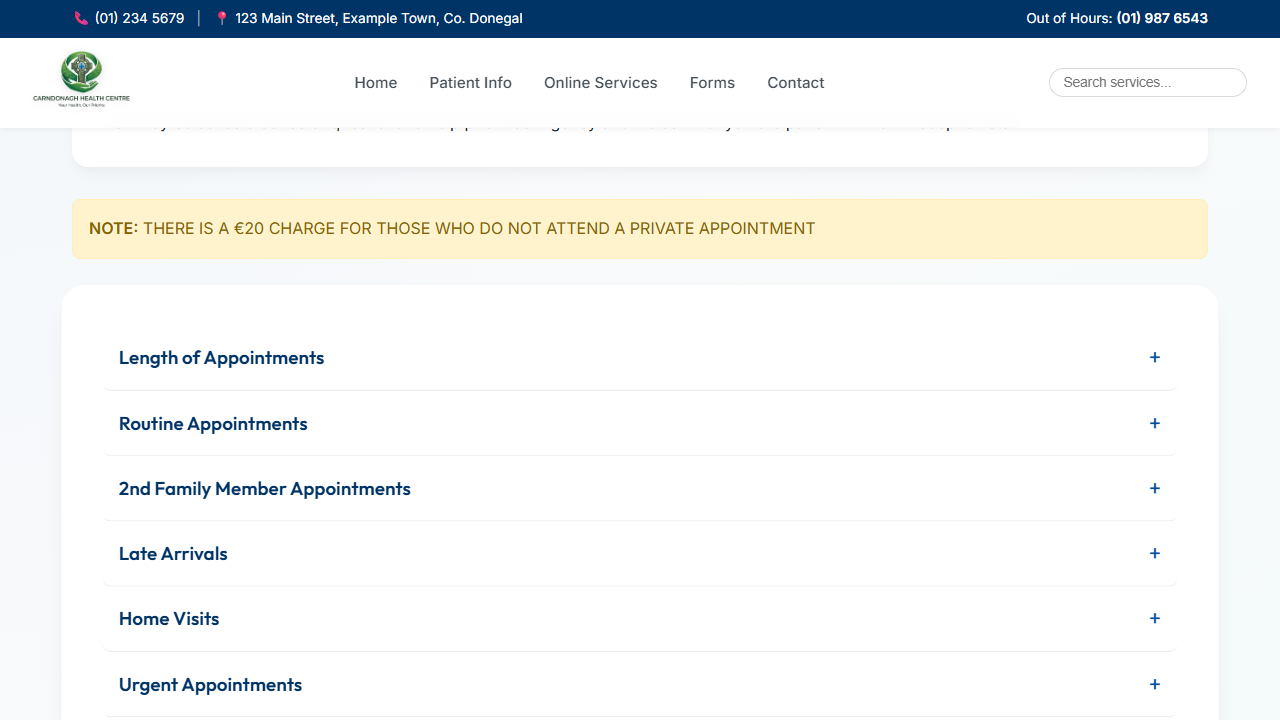
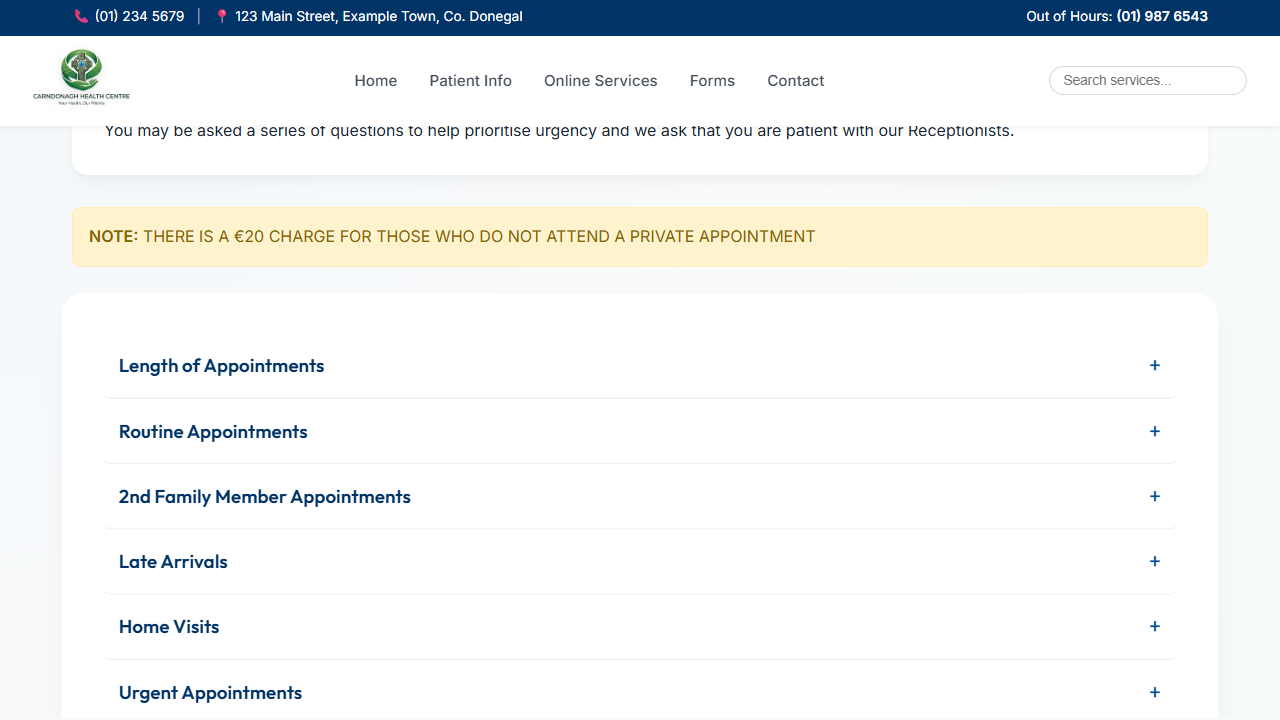
Fix: demo gating, lock scoping, bulk reads, sessionStorage, URL guards, CSS prefixes, placeholder links, test cleanup

diff --git a/forms.html b/forms.html
@@ -23,23 +23,23 @@
                 <ul class="file-list">
                     <li><a href="https://www.rsa.ie/docs/default-source/services/s1.5-driving-test/medical-report-form-d501.pdf?sfvrsn=c678b8f_17" target="_blank">Driving Licence Medical Report Form</a></li>
                     <li><a href="https://www.ndls.ie/images/Documents/DrivingLicence/155076_NDLS_Eyesight_Rep_V9_Online_FA_BD_PDFX.pdf" target="_blank">Driving Licence Eyesight Report Form</a></li>
-                    <li><a href="https://examplehealthcentre.ie/s/Carers-allowance-form.pdf" target="_blank">Carers Allowance Form (CR1)</a></li>
-                    <li><a href="https://examplehealthcentre.ie/s/37058_cb5b7ad51df64140b7ec346446ef31fb.pdf" target="_blank">Disability Allowance Form (DA1)</a></li>
-                    <li><a href="https://www2.hse.ie/file-library/medical-cards/medical-card-application-form-english.pdf" target="_blank">Medical Card & GP Visit Card Application</a></li>
-                    <li><a href="https://examplehealthcentre.ie/s/10311_db803e83c4364702b53b5acb663461bc.pdf" target="_blank">Maternity Benefit Application Form (MB1)</a></li>
-                    <li><a href="https://examplehealthcentre.ie/s/drugs-payment-scheme-application-form-english.pdf" target="_blank">Drug Payment Scheme Application</a></li>
-                    <li><a href="https://examplehealthcentre.ie/s/LTI-form.pdf" target="_blank">Long Term Illness (LTI) Application</a></li>
+                    <li><span aria-label="Demo placeholder - link not active" title="Demo site: this link is a placeholder and is not active">Carers Allowance Form (CR1) <em>[Demo placeholder]</em></span></li>
+                    <li><span aria-label="Demo placeholder - link not active" title="Demo site: this link is a placeholder and is not active">Disability Allowance Form (DA1) <em>[Demo placeholder]</em></span></li>
+                    <li><a href="https://www2.hse.ie/file-library/medical-cards/medical-card-application-form-english.pdf" target="_blank">Medical Card &amp; GP Visit Card Application</a></li>
+                    <li><span aria-label="Demo placeholder - link not active" title="Demo site: this link is a placeholder and is not active">Maternity Benefit Application Form (MB1) <em>[Demo placeholder]</em></span></li>
+                    <li><span aria-label="Demo placeholder - link not active" title="Demo site: this link is a placeholder and is not active">Drug Payment Scheme Application <em>[Demo placeholder]</em></span></li>
+                    <li><span aria-label="Demo placeholder - link not active" title="Demo site: this link is a placeholder and is not active">Long Term Illness (LTI) Application <em>[Demo placeholder]</em></span></li>
                 </ul>
             </div>
 
             <div class="card">
                 <h3>Practice Forms</h3>
                 <ul class="file-list">
-                    <li><a href="https://examplehealthcentre.ie/s/REPEAT-Rx-FORM.docx">Repeat Prescriptions Ordering Form</a></li>
-                    <li><a href="https://examplehealthcentre.ie/s/URINE-FORM.docx">Urine Analysis Form</a></li>
-                    <li><a href="https://examplehealthcentre.ie/s/foiform.pdf" target="_blank">Request for Medical Records</a></li>
-                    <li><a href="https://examplehealthcentre.ie/s/Medical-record-collection-by-3rd-party.pdf" target="_blank">Medical Record Collection by 3rd Party</a></li>
-                    <li><a href="https://examplehealthcentre.ie/s/refusalform.pdf" target="_blank">Vaccination Declination Form</a></li>
+                    <li><span aria-label="Demo placeholder - link not active" title="Demo site: this link is a placeholder and is not active">Repeat Prescriptions Ordering Form <em>[Demo placeholder]</em></span></li>
+                    <li><span aria-label="Demo placeholder - link not active" title="Demo site: this link is a placeholder and is not active">Urine Analysis Form <em>[Demo placeholder]</em></span></li>
+                    <li><span aria-label="Demo placeholder - link not active" title="Demo site: this link is a placeholder and is not active">Request for Medical Records <em>[Demo placeholder]</em></span></li>
+                    <li><span aria-label="Demo placeholder - link not active" title="Demo site: this link is a placeholder and is not active">Medical Record Collection by 3rd Party <em>[Demo placeholder]</em></span></li>
+                    <li><span aria-label="Demo placeholder - link not active" title="Demo site: this link is a placeholder and is not active">Vaccination Declination Form <em>[Demo placeholder]</em></span></li>
                 </ul>
             </div>
         </div>

diff --git a/order-prescription.html b/order-prescription.html
@@ -565,16 +565,16 @@
         }
 
         function saveToLocalStorage() {
-            localStorage.setItem('prescriptionFormData', JSON.stringify(getFormDataAsObject()));
+            sessionStorage.setItem('prescriptionFormData', JSON.stringify(getFormDataAsObject()));
         }
 
         function loadFromLocalStorage() {
-            const savedData = localStorage.getItem('prescriptionFormData');
+            const savedData = sessionStorage.getItem('prescriptionFormData');
             if (savedData) {
                 try {
                     populateFormFromData(JSON.parse(savedData));
                 } catch (e) {
-                    localStorage.removeItem('prescriptionFormData');
+                    sessionStorage.removeItem('prescriptionFormData');
                 }
             }
         }
@@ -688,7 +688,7 @@
             if (confirm("Are you sure you want to clear the entire form?")) {
                 resetSubmittedState();
                 populateFormFromData({ patientDetails: {}, medicationList: [] });
-                localStorage.removeItem('prescriptionFormData');
+                sessionStorage.removeItem('prescriptionFormData');
                 showNotification("Form cleared.");
                 updateMedicationVisibility();
             }
@@ -830,7 +830,7 @@
                     <button class="btn" onclick="location.reload()">Submit Another Request</button>
                 `;
                     successDiv.style.display = 'block';
-                    localStorage.removeItem('prescriptionFormData');
+                    sessionStorage.removeItem('prescriptionFormData');
 
                     // Scroll viewport up to focus on the confirmation card
                     if (appContainer) {
@@ -894,9 +894,9 @@
             setTimeout(() => n.style.display = 'none', 3000);
         }
 
-        function saveToLocalStorage() { localStorage.setItem('prescriptionFormData', JSON.stringify(getFormDataAsObject())); }
+        function saveToLocalStorage() { sessionStorage.setItem('prescriptionFormData', JSON.stringify(getFormDataAsObject())); }
         function loadFromLocalStorage() {
-            const d = localStorage.getItem('prescriptionFormData');
+            const d = sessionStorage.getItem('prescriptionFormData');
             if (d) populateFormFromData(JSON.parse(d));
         }
 

diff --git a/prescription_form.html b/prescription_form.html
@@ -269,7 +269,7 @@
 <script src="js/siteData.js"></script>
 <script>
     // --- CONFIGURATION ---------
-    const SCRIPT_WEB_APP_URL = (typeof CONFIG !== 'undefined' && CONFIG && CONFIG.SCRIPT_WEB_APP_URL) ? CONFIG.SCRIPT_WEB_APP_URL : "https://script.google.com/macros/s/AKfycbwJqid8iaWeVppJjnBeyk11nKFj-2EWLuDLCZNlG9wbJ8eHDOo_zD3g65qHP0n7-tcL/exec";
+    const SCRIPT_WEB_APP_URL = (typeof CONFIG !== 'undefined' && CONFIG && CONFIG.SCRIPT_WEB_APP_URL) ? CONFIG.SCRIPT_WEB_APP_URL : '';
     const commonMedications = ["Atorvastatin", "Ramipril", "Amlodipine", "Lansoprazole", "Salbutamol", "Metformin", "Sertraline", "Colecalciferol", "Levothyroxine", "Aspirin", "Bisoprolol", "Paracetamol", "Ibuprofen"];
     const pharmacyOptions = siteData.pharmacyOptions;
     const frequencyOptions = siteData.frequencyOptions;
@@ -468,6 +468,13 @@
         if(confirmBtn) {
             confirmBtn.disabled = true;
             confirmBtn.textContent = "Sending...";
+        }
+
+        if (!SCRIPT_WEB_APP_URL) {
+            console.error('Error: CONFIG.SCRIPT_WEB_APP_URL is not configured.');
+            showNotification('An error occurred. Please try again or call reception: Submission URL is not configured.');
+            if (confirmBtn) { confirmBtn.disabled = false; confirmBtn.textContent = "Confirm & Submit"; }
+            return;
         }
 
         fetch(SCRIPT_WEB_APP_URL, {

diff --git a/appointments.html b/appointments.html
@@ -195,13 +195,6 @@
             const successMsg = document.getElementById('appSuccessMessage');
             const originalBtnHtml = btn.innerHTML;
 
-            const SCRIPT_WEB_APP_URL = (typeof CONFIG !== 'undefined' && CONFIG && CONFIG.SCRIPT_WEB_APP_URL) ? CONFIG.SCRIPT_WEB_APP_URL : '';
-            if (!SCRIPT_WEB_APP_URL) {
-                console.error('Error: CONFIG.SCRIPT_WEB_APP_URL is not configured.');
-                alert('An error occurred. Please try again or call reception: Submission URL is not configured.');
-                return;
-            }
-
             btn.disabled = true;
             btn.innerHTML = "Sending...";
 
@@ -234,6 +227,15 @@
                     btn.disabled = false;
                     btn.innerHTML = originalBtnHtml;
                 }, 400);
+                return;
+            }
+
+            const SCRIPT_WEB_APP_URL = (typeof CONFIG !== 'undefined' && CONFIG && CONFIG.SCRIPT_WEB_APP_URL) ? CONFIG.SCRIPT_WEB_APP_URL : '';
+            if (!SCRIPT_WEB_APP_URL) {
+                console.error('Error: CONFIG.SCRIPT_WEB_APP_URL is not configured.');
+                alert('An error occurred. Please try again or call reception: Submission URL is not configured.');
+                btn.disabled = false;
+                btn.innerHTML = originalBtnHtml;
                 return;
             }
 

diff --git a/css/style.css b/css/style.css
@@ -425,6 +425,7 @@ header {
 /* Section Styling */
 .section {
     background: var(--bg-card);
+    -webkit-backdrop-filter: blur(6px);
     backdrop-filter: blur(6px);
     border-radius: var(--radius-md);
     padding: 6rem 2rem;
@@ -779,6 +780,7 @@ footer {
     overflow-y: auto;
     z-index: 10;
     background: var(--bg-card);
+    -webkit-backdrop-filter: blur(6px);
     backdrop-filter: blur(6px);
     border: 1px solid rgba(0,0,0,0.08);
     border-radius: var(--radius-lg);
@@ -1098,6 +1100,7 @@ input:not([type="checkbox"]):not([type="radio"]):not([type="search"]):focus, sel
     width: 100%;
     height: 100%;
     background: rgba(15, 23, 42, 0.6);
+    -webkit-backdrop-filter: blur(4px);
     backdrop-filter: blur(4px);
     display: none;
     justify-content: center;

diff --git a/verification/debug_script.py b/verification/debug_script.py
@@ -1,9 +1,9 @@
 from playwright.sync_api import sync_playwright
 
 def debug_page():
-    import os
-    cwd = os.getcwd()
-    url = f"file://{cwd}/order-prescription.html"
+    from pathlib import Path
+    script_dir = Path(__file__).resolve().parent.parent
+    url = (script_dir / "order-prescription.html").as_uri()
 
     with sync_playwright() as p:
         browser = p.chromium.launch(headless=True)
